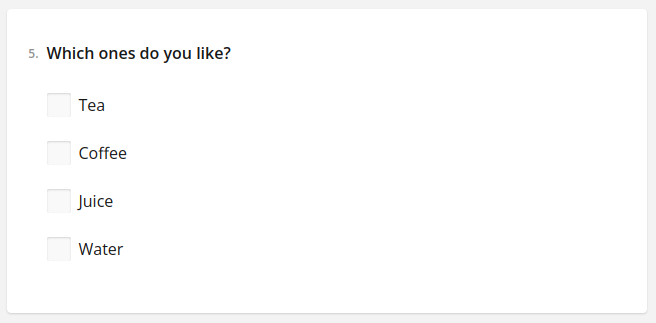
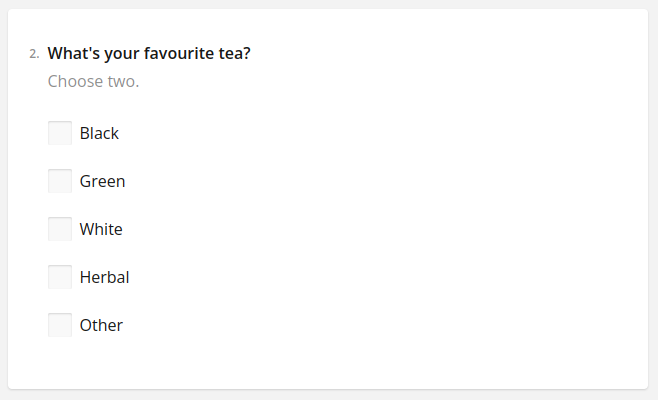
Built site for gh-pages

diff --git a/ref/tools/question_types.html b/ref/tools/question_types.html
@@ -69,15 +69,15 @@ ul.task-list li input[type="checkbox"] {
 <link rel="stylesheet" href="../../styles/styles.css">
 <meta property="og:title" content="Veles Documentation - Question types">
 <meta property="og:description" content="Veles includes a series of different question types. Each of them can be passed as the type argument in question() (or directly in Question(). Every question type also has a wrapper that allows to create a Question object quicker. For example you can create a radio question with question(question_type=&quot;radio&quot;) or with radio().">
-<meta property="og:image" content="https://docs.velesweb.org/figs/question_types/radio.png">
+<meta property="og:image" content="https://docs.velesweb.org/figs/question_types/checkbox.png">
 <meta property="og:site-name" content="Veles Documentation">
-<meta property="og:image:height" content="363">
-<meta property="og:image:width" content="655">
+<meta property="og:image:height" content="400">
+<meta property="og:image:width" content="658">
 <meta name="twitter:title" content="Veles Documentation - Question types">
 <meta name="twitter:description" content="Veles includes a series of different question types. Each of them can be passed as the type argument in question() (or directly in Question(). Every question type also has a wrapper that allows to create a Question object quicker. For example you can create a radio question with question(question_type=&quot;radio&quot;) or with radio().">
-<meta name="twitter:image" content="https://docs.velesweb.org/figs/question_types/radio.png">
-<meta name="twitter:image-height" content="363">
-<meta name="twitter:image-width" content="655">
+<meta name="twitter:image" content="https://docs.velesweb.org/figs/question_types/checkbox.png">
+<meta name="twitter:image-height" content="400">
+<meta name="twitter:image-width" content="658">
 <meta name="twitter:card" content="summary_large_image">
 </head>
 
@@ -257,8 +257,14 @@ ul.task-list li input[type="checkbox"] {
     <h2 id="toc-title">On this page</h2>
    
   <ul>
-  <li><a href="#radio" id="toc-radio" class="nav-link active" data-scroll-target="#radio"><code>radio</code></a></li>
-  <li><a href="#checkbox" id="toc-checkbox" class="nav-link" data-scroll-target="#checkbox"><code>checkbox</code></a></li>
+  <li><a href="#checkbox" id="toc-checkbox" class="nav-link active" data-scroll-target="#checkbox"><code>checkbox</code></a></li>
+  <li><a href="#dropdown" id="toc-dropdown" class="nav-link" data-scroll-target="#dropdown"><code>dropdown</code></a></li>
+  <li><a href="#dropdown_multi" id="toc-dropdown_multi" class="nav-link" data-scroll-target="#dropdown_multi"><code>dropdown_multi</code></a></li>
+  <li><a href="#radio" id="toc-radio" class="nav-link" data-scroll-target="#radio"><code>radio</code></a></li>
+  <li><a href="#ranking" id="toc-ranking" class="nav-link" data-scroll-target="#ranking"><code>ranking</code></a></li>
+  <li><a href="#text" id="toc-text" class="nav-link" data-scroll-target="#text"><code>text</code></a></li>
+  <li><a href="#text_long" id="toc-text_long" class="nav-link" data-scroll-target="#text_long"><code>text_long</code></a></li>
+  <li><a href="#yes_no" id="toc-yes_no" class="nav-link" data-scroll-target="#yes_no"><code>yes_no</code></a></li>
   </ul>
 <div class="toc-actions"><div><i class="bi bi-github"></i></div><div class="action-links"><p><a href="https://github.com/jakub-jedrusiak/VelesDocs/edit/main/ref/tools/question_types.qmd" class="toc-action">Edit this page</a></p><p><a href="https://github.com/jakub-jedrusiak/VelesDocs/issues/new" class="toc-action">Report an issue</a></p></div></div></nav>
     </div>
@@ -271,7 +277,7 @@ ul.task-list li input[type="checkbox"] {
 <p class="subtitle lead">Wrappers and available types of questions</p>
   <div class="quarto-categories">
     <div class="quarto-category"><code>velesresearch</code></div>
-    <div class="quarto-category"><code>velesresearch.question_types</code></div>
+    <div class="quarto-category"><code>velesresearch.questiontypes</code></div>
   </div>
   </div>
 
@@ -307,24 +313,78 @@ ul.task-list li input[type="checkbox"] {
 </thead>
 <tbody>
 <tr class="odd">
-<td><code>radio</code></td>
-<td>single choice question</td>
-</tr>
-<tr class="even">
 <td><code>checkbox</code></td>
 <td>multiple choice question</td>
 </tr>
+<tr class="even">
+<td><code>dropdown</code></td>
+<td>single choice question with a dropdown list</td>
+</tr>
+<tr class="odd">
+<td><code>dropdown_multi</code></td>
+<td>multiple choice question with a dropdown list</td>
+</tr>
+<tr class="even">
+<td><code>radio</code></td>
+<td>single choice question</td>
+</tr>
+<tr class="odd">
+<td><code>ranking</code></td>
+<td>question to rank given items</td>
+</tr>
+<tr class="even">
+<td><code>text</code></td>
+<td>short text field</td>
+</tr>
+<tr class="odd">
+<td><code>text_long</code></td>
+<td>long text box</td>
+</tr>
+<tr class="even">
+<td><code>yes_no</code></td>
+<td>a yes/no question</td>
+</tr>
 </tbody>
 </table>
+<section id="checkbox" class="level1">
+<h1><code>checkbox</code></h1>
+<p>Multiple choice question. Just like <code>radio</code> but allows to pick multiple answers.</p>
+<p><img src="../../figs/question_types/checkbox.png" class="img-fluid" alt="checkbox question example"></p>
+</section>
+<section id="dropdown" class="level1">
+<h1><code>dropdown</code></h1>
+<p>Single choice question. Just like <code>radio</code> but with a dropdown list.</p>
+<p><img src="../../figs/question_types/dropdown.png" class="img-fluid" alt="dropdown question example"></p>
+</section>
+<section id="dropdown_multi" class="level1">
+<h1><code>dropdown_multi</code></h1>
+<p>Multiple choice question. Just like <code>checkbox</code> but with a dropdown list.</p>
+<p><img src="../../figs/question_types/dropdown_multi.png" class="img-fluid" alt="dropdown_multi question example"></p>
+</section>
 <section id="radio" class="level1">
 <h1><code>radio</code></h1>
 <p>Single choice question. Can have “None” and “Other” options (available through <a href="../../ref/options/QuestionOptions.html">options</a>).</p>
 <p><img src="../../figs/question_types/radio.png" class="img-fluid" alt="radio question example"></p>
 </section>
-<section id="checkbox" class="level1">
-<h1><code>checkbox</code></h1>
-<p>Multiple choice question. Just like <code>radio</code> but allows to pick multiple answers.</p>
-<p><img src="../../figs/question_types/checkbox.png" class="img-fluid" alt="checkbox question example"></p>
+<section id="ranking" class="level1">
+<h1><code>ranking</code></h1>
+<p>Question to rank given items e.g.&nbsp;from best to worst.</p>
+<p><img src="../../figs/question_types/ranking.png" class="img-fluid" alt="ranking question example"></p>
+</section>
+<section id="text" class="level1">
+<h1><code>text</code></h1>
+<p>Short text field. For longer text use <code>text_long</code>.</p>
+<p><img src="../../figs/question_types/text.png" class="img-fluid" alt="text question example"></p>
+</section>
+<section id="text_long" class="level1">
+<h1><code>text_long</code></h1>
+<p>Long text box. For shorter text use <code>text</code>.</p>
+<p><img src="../../figs/question_types/text_long.png" class="img-fluid" alt="text_long question example"></p>
+</section>
+<section id="yes_no" class="level1">
+<h1><code>yes_no</code></h1>
+<p>A yes/no question with a simple switch.</p>
+<p><img src="../../figs/question_types/yes_no.png" class="img-fluid" alt="yes_no question example"></p>
 
 
 </section>

diff --git a/ref/overview.html b/ref/overview.html
@@ -342,7 +342,7 @@ Categories
 </tr>
 </thead>
 <tbody class="list">
-<tr data-index="0" data-categories="`velesresearch`,`velesresearch.question_types`" data-listing-file-modified-sort="1687990377510" data-listing-reading-time-sort="1" data-listing-title-sort="Question types" data-listing-filename-sort="question_types.qmd">
+<tr data-index="0" data-categories="`velesresearch`,`velesresearch.questiontypes`" data-listing-file-modified-sort="1688063901445" data-listing-reading-time-sort="2" data-listing-title-sort="Question types" data-listing-filename-sort="question_types.qmd">
 <td>
 <a href="../ref/tools/question_types.html" class="title listing-title">Question types</a>
 </td>
@@ -350,7 +350,7 @@ Categories
 <span class="listing-subtitle">Wrappers and available types of questions</span>
 </td>
 <td>
-<span class="listing-categories"><code>velesresearch</code>,<code>velesresearch.question_types</code></span>
+<span class="listing-categories"><code>velesresearch</code>,<code>velesresearch.questiontypes</code></span>
 </td>
 </tr>
 <tr data-index="1" data-categories="`velesresearch`,`velesresearch.options`" data-listing-file-modified-sort="1687990361560" data-listing-reading-time-sort="1" data-listing-title-sort="`PageOptions`" data-listing-filename-sort="PageOptions.qmd">

diff --git a/ref/questiontypes.html b/ref/questiontypes.html
@@ -1,0 +1,14 @@
+<html xmlns="http://www.w3.org/1999/xhtml">
+<head>
+  <title>Redirect</title>
+  <script type="text/javascript">
+    var redirects = {"":"tools/question_types.html"};
+    var hash = window.location.hash.startsWith('#') ? window.location.hash.slice(1) : window.location.hash;
+    var redirect = redirects[hash] || redirects[""] || "/";
+    window.document.title = 'Redirect to  ' +  redirect;
+    window.location.replace(redirect);
+  </script>
+</head>
+<body>
+</body>
+</html>
